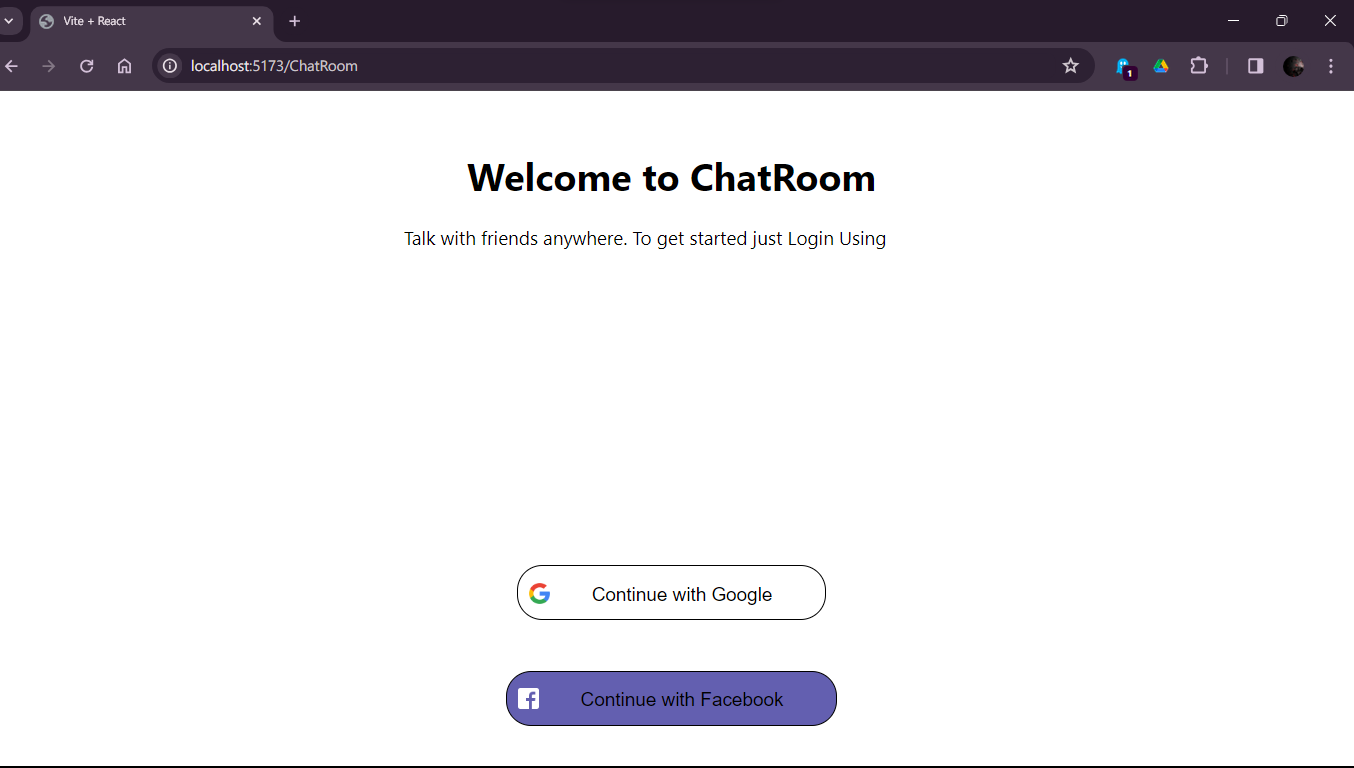
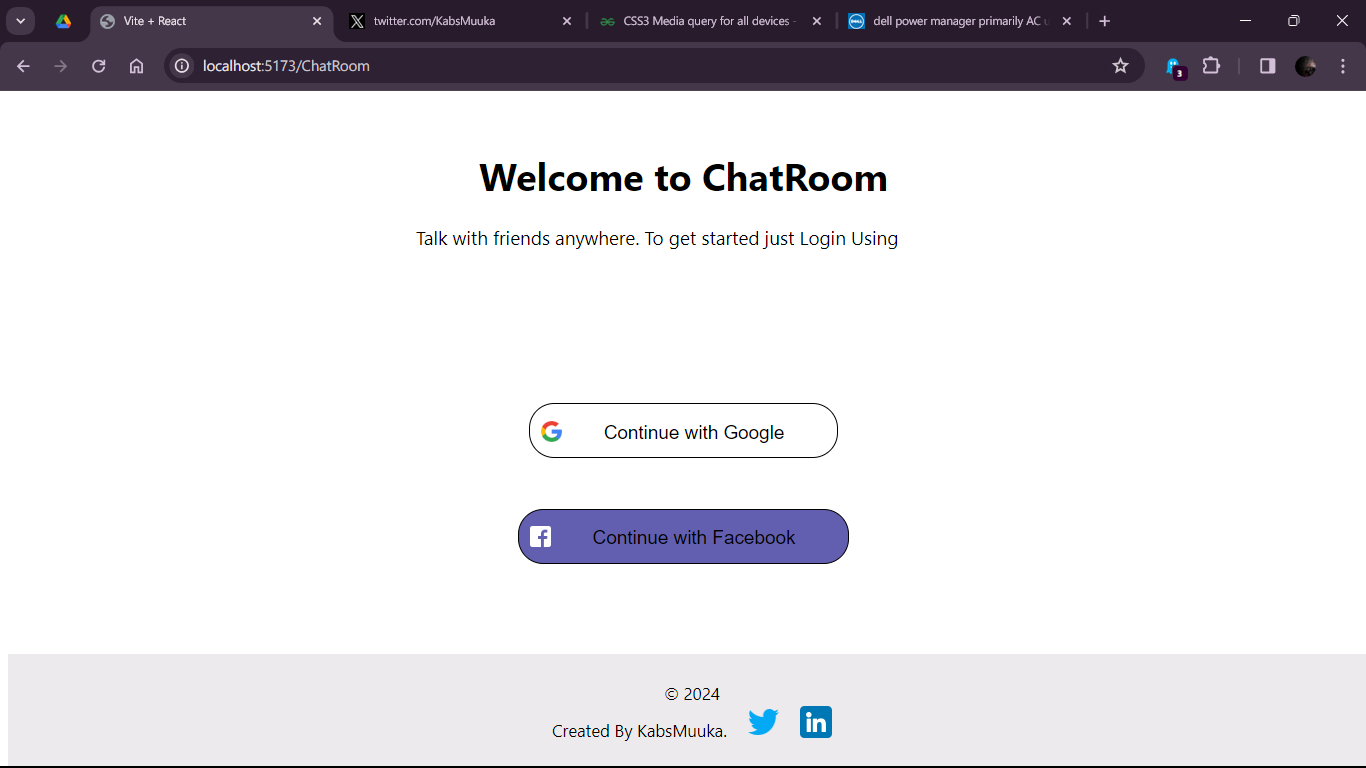
added a footer and made some minor changes

diff --git a/conmponents/Footer.jsx b/conmponents/Footer.jsx
@@ -1,68 +1,28 @@
-import * as React from "react";
-import CssBaseline from "@mui/material/CssBaseline";
-import { createTheme, ThemeProvider } from "@mui/material/styles";
-import Box from "@mui/material/Box";
-import Typography from "@mui/material/Typography";
-import Container from "@mui/material/Container";
-import Link from "@mui/material/Link";
-
-function Copyright() {
+export default function Footer() {
   return (
-    <Typography variant="body2" color="text.secondary">
-      {"Copyright © "}
-      <Link color="inherit" href="https://mui.com/">
-        Your Website
-      </Link>{" "}
-      {new Date().getFullYear()}
-      {"."}
-    </Typography>
-  );
-}
-
-// TODO remove, this demo shouldn't need to reset the theme.
-const defaultTheme = createTheme();
-
-export default function StickyFooter() {
-  return (
-    <ThemeProvider theme={defaultTheme}>
-      <Box
-        sx={{
-          display: "flex",
-          flexDirection: "column",
-          minHeight: "100vh",
-        }}
-      >
-        <CssBaseline />
-        <Container component="main" sx={{ mt: 8, mb: 2 }} maxWidth="sm">
-          <Typography variant="h2" component="h1" gutterBottom>
-            Sticky footer
-          </Typography>
-          <Typography variant="h5" component="h2" gutterBottom>
-            {"Pin a footer to the bottom of the viewport."}
-            {"The footer will move as the main element of the page grows."}
-          </Typography>
-          <Typography variant="body1">Sticky footer placeholder.</Typography>
-        </Container>
-        <Box
-          component="footer"
-          sx={{
-            py: 3,
-            px: 2,
-            mt: "auto",
-            backgroundColor: (theme) =>
-              theme.palette.mode === "light"
-                ? theme.palette.grey[200]
-                : theme.palette.grey[800],
-          }}
-        >
-          <Container maxWidth="sm">
-            <Typography variant="body1">
-              My sticky footer can be found here.
-            </Typography>
-            <Copyright />
-          </Container>
-        </Box>
-      </Box>
-    </ThemeProvider>
+    <>
+      <div className="div-footer">
+        <footer>
+          <p className="footerInfo">
+            &copy; 2024 <br />
+            Created By KabsMuuka.
+            <a
+              className="links"
+              href="https://twitter.com/KabsMuuka"
+              target="_blank"
+            >
+              <img src="/twitter.png" width={30} alt="" />
+            </a>
+            <a
+              className="links"
+              href="https://www.linkedin.com/in/kabwali-muuka-7369a622a/"
+              target="_blank"
+            >
+              <img src="/linkedin.png" width={30} alt="" />
+            </a>
+          </p>
+        </footer>
+      </div>
+    </>
   );
 }

diff --git a/src/App.css b/src/App.css
@@ -96,7 +96,7 @@ input {
 .Div-signInButton-G {
   display: flex;
   justify-content: center;
-  margin-top: 300px;
+  margin-top: 20%;
 }
 
 .signInBtn-for-G::before {
@@ -135,7 +135,6 @@ input {
 .signInBtn-for-fb::before {
   content: ""; /* Adding empty content */
   display: inline-block; /* Ensuring the pseudo-element is displayed */
-
   position: relative;
   top: 3px;
   left: -40px;
@@ -263,4 +262,32 @@ p {
   padding: 50px;
   font-size: 30px;
   text-align: center;
+}
+
+.div-footer {
+  display: flex;
+  justify-content: center;
+  bottom: 0;
+  position: fixed;
+  background-color: rgb(237, 234, 237);
+  width: 100%;
+}
+
+.links {
+  padding-left: 20px;
+}
+.footerInfo {
+  font-family: system-ui, -apple-system, BlinkMacSystemFont, "Segoe UI", Roboto,
+    Oxygen, Ubuntu, Cantarell, "Open Sans", "Helvetica Neue", sans-serif;
+}
+
+/* For Mobile Phones Portrait or Landscape View */
+@media screen and (max-device-width: 640px) {
+  .App {
+    width: 400px;
+    /* height: 50%; */
+  }
+  .Div-signInButton-G {
+    margin-top: 50%;
+  }
 }

diff --git a/src/App.jsx b/src/App.jsx
@@ -4,12 +4,12 @@ import { GoogleAuthProvider, getAuth, signInWithPopup } from "firebase/auth"; //
 import { useAuthState } from "react-firebase-hooks/auth";
 
 //IMPORTS FROM COMPONENET
-import SiginWithGoogle from "../conmponents/SiginWithGoogle";
-import SignInWithFacebook from "../conmponents/SiginWithFaceBook";
+import SiginWithGoogle from "../conmponents/auth/SiginWithGoogle";
+import SignInWithFacebook from "../conmponents/auth/SiginWithFaceBook";
 import ChatRoom from "../conmponents/ChatRoom";
 import Header from "../conmponents/Header";
 import Profile from "../conmponents/Profile";
-
+import Footer from "../conmponents/Footer";
 import { Routes, Route } from "react-router-dom";
 
 const firebaseConfig = {
@@ -75,6 +75,8 @@ export default function App() {
           ></Route>
         </Routes>
       </div>
+
+      <span> {!user ? <Footer /> : ""} </span>
     </>
   );
 }

diff --git a/conmponents/auth/Signout.jsx b/conmponents/auth/Signout.jsx
@@ -1,0 +1,26 @@
+import { initializeApp } from "firebase/app";
+import { GoogleAuthProvider, getAuth, signInWithPopup } from "firebase/auth";
+
+const firebaseConfig = {
+  apiKey: "AIzaSyA9XTWy8rBAYYM-BMWTVlJYmp0ieaCliI0",
+  authDomain: "sagita-ffcc5.firebaseapp.com",
+  projectId: "sagita-ffcc5",
+  storageBucket: "sagita-ffcc5.appspot.com",
+  messagingSenderId: "518705465297",
+  appId: "1:518705465297:web:b2d7fc27e97d53457b42f0",
+  measurementId: "G-58BQEDNG27",
+};
+const firebaseApp = initializeApp(firebaseConfig);
+const auth = getAuth(firebaseApp);
+
+export default function SignOut() {
+  return (
+    auth.currentUser && (
+      <div className="signOutBtnDiv">
+        <button className="signOutBtn" onClick={() => auth.signOut()}>
+          Quit
+        </button>
+      </div>
+    )
+  );
+}

diff --git a/conmponents/Profile.jsx b/conmponents/Profile.jsx
@@ -58,12 +58,12 @@ export default function Profile() {
         </div>
 
         <div className="grid-content">
-          <label htmlFor="">DisplayName: </label>{" "}
+          <label htmlFor="">Name: </label>{" "}
           <span>{auth.currentUser.displayName}</span>
         </div>
 
         <div className="grid-content">
-          <label htmlFor="">User Email: </label>{" "}
+          <label htmlFor="">Email: </label>{" "}
           <span>{auth.currentUser.email}</span>
         </div>
       </div>

diff --git a/conmponents/auth/SiginWithFaceBook.jsx b/conmponents/auth/SiginWithFaceBook.jsx
@@ -1,7 +1,7 @@
 import { initializeApp } from "firebase/app";
 import { FacebookAuthProvider, getAuth, signInWithPopup } from "firebase/auth";
 import { useNavigate } from "react-router-dom";
-import ChatRoom from "./ChatRoom";
+import ChatRoom from "../ChatRoom";
 
 const firebaseConfig = {
   apiKey: "AIzaSyA9XTWy8rBAYYM-BMWTVlJYmp0ieaCliI0",

diff --git a/conmponents/auth/SiginWithGoogle.jsx b/conmponents/auth/SiginWithGoogle.jsx
@@ -1,7 +1,7 @@
 import { initializeApp } from "firebase/app";
 import { GoogleAuthProvider, getAuth, signInWithPopup } from "firebase/auth";
 import { useNavigate } from "react-router-dom";
-import ChatRoom from "./ChatRoom";
+import ChatRoom from "../ChatRoom";
 
 const firebaseConfig = {
   apiKey: "AIzaSyA9XTWy8rBAYYM-BMWTVlJYmp0ieaCliI0",
